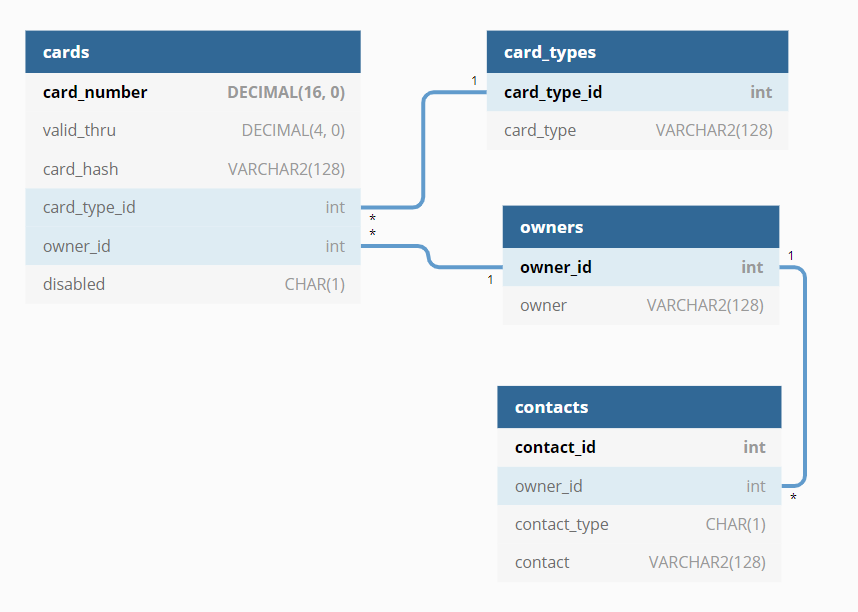
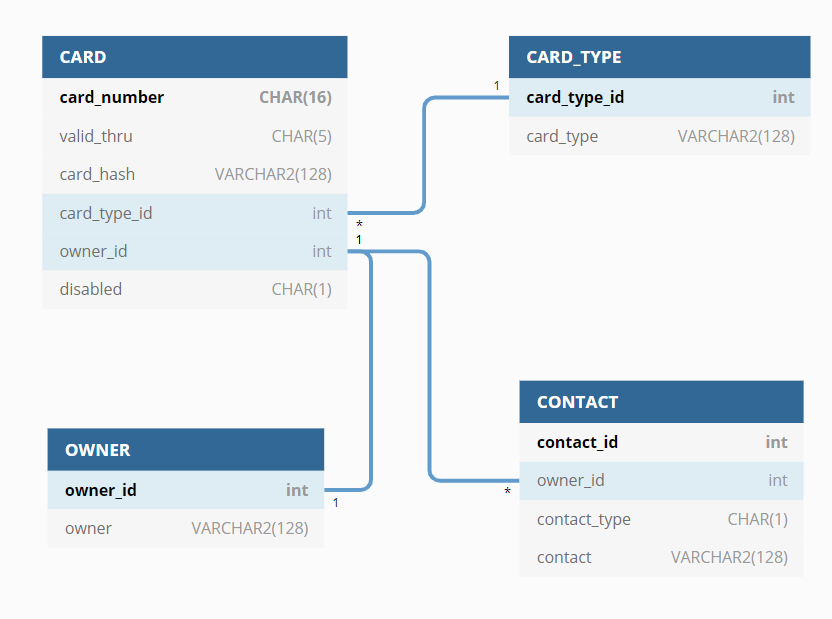
Changes in database SQL script + new DB diagram

Changed region(s): [[0.0312, 0.031, 1.0, 0.9314]]

diff --git a/application/cardservice/src/main/java/hu/robi/cardservice/sessionservice/CardSessionServiceImpl.java b/application/cardservice/src/main/java/hu/robi/cardservice/sessionservice/CardSessionServiceImpl.java
@@ -19,19 +19,16 @@ public class CardSessionServiceImpl implements CardSessionService {
     }
 
     @Override
-    @Transactional
     public List<Card> requestAllCards() {
         return cardDAO.requestAllCards();
     }
 
     @Override
-    @Transactional
     public Card requestCard(String theCardNumber) {
         return cardDAO.requestCard(theCardNumber);
     }
 
     @Override
-    @Transactional
     public void createCard(Card theCard) {
         cardDAO.createCard(theCard);
     }
